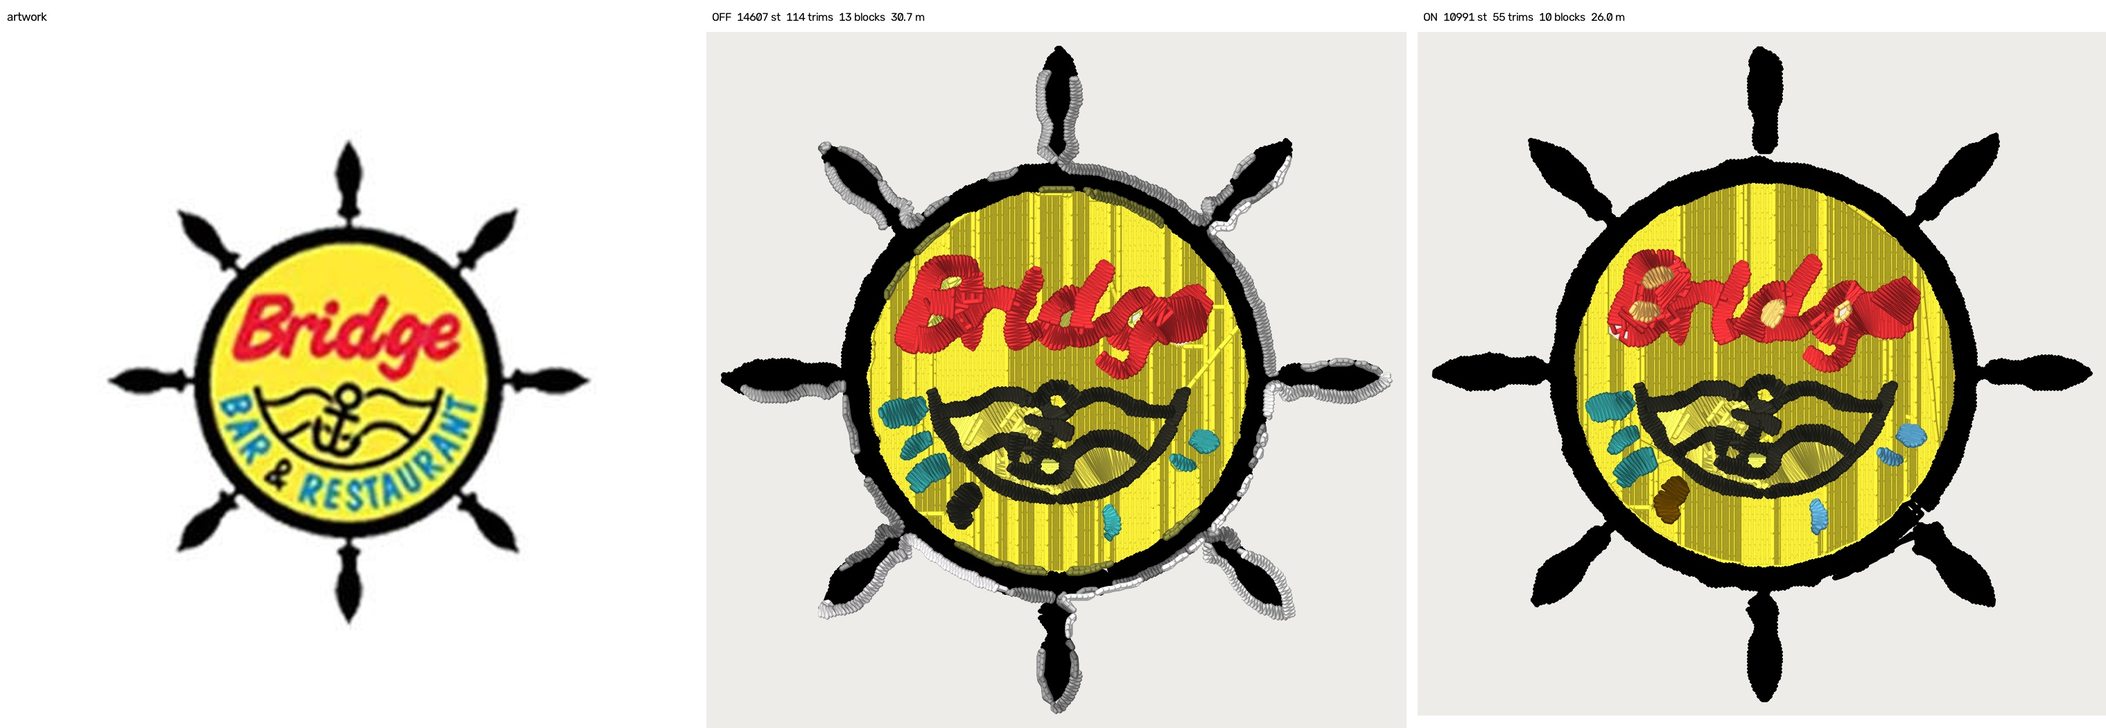
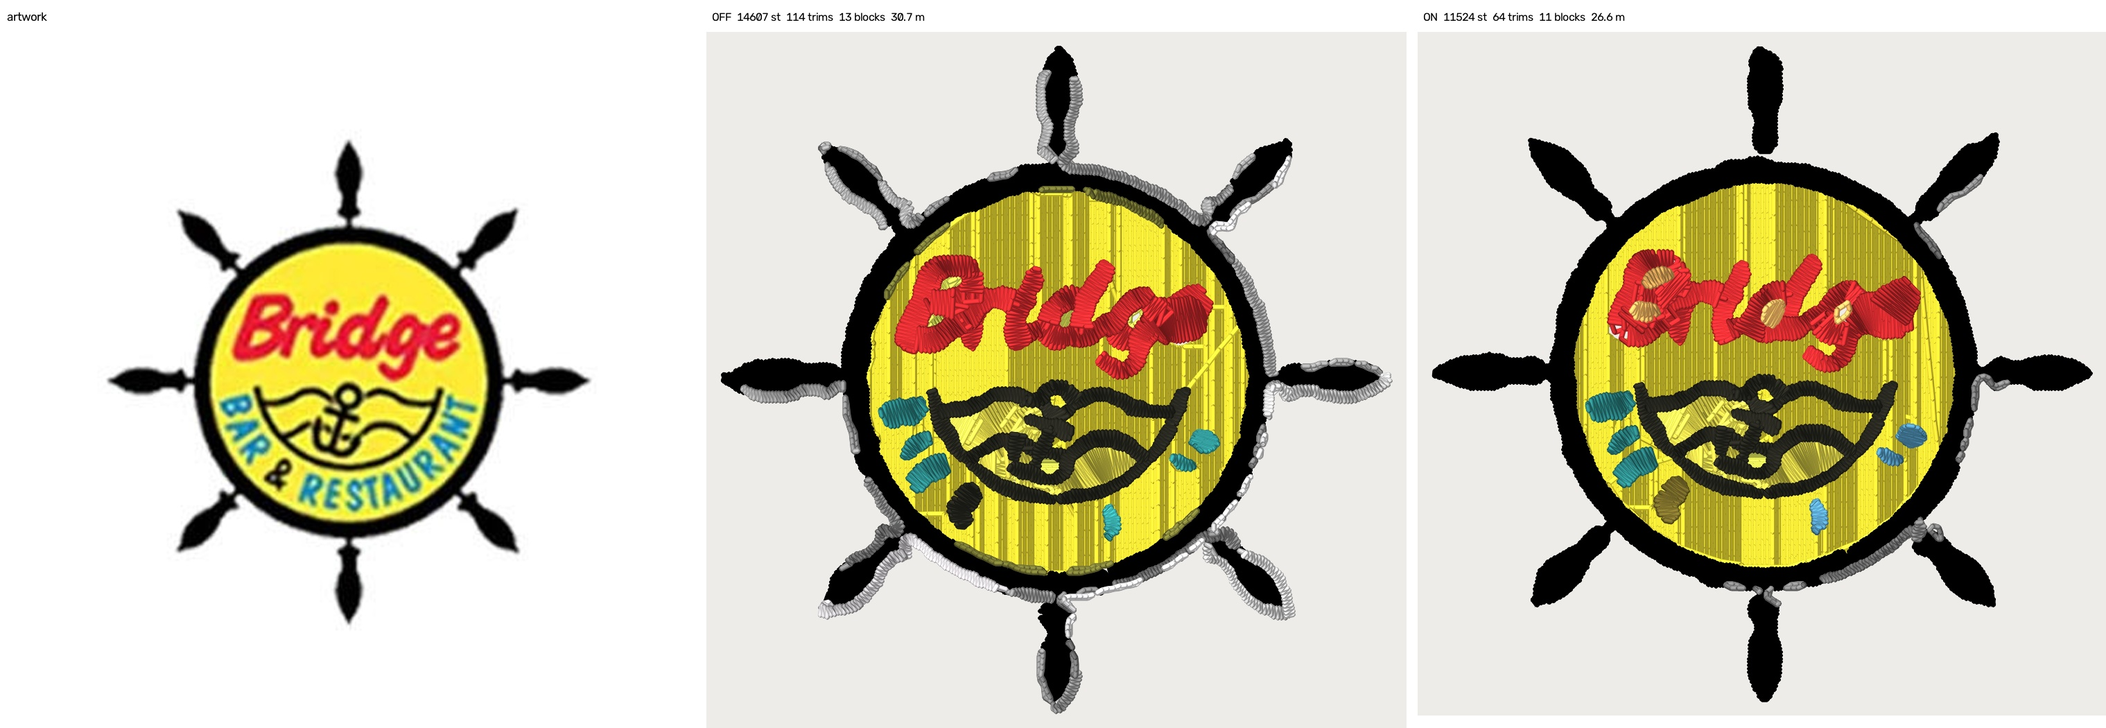
stage 2: the halo dissolve judges the STACK, not each band — the window is a question about the structure, collinearity about the ring
Ringing arrives stacked (black -> Whale -> Cobblestone -> Skylight -> page on
Bridge Bar's spokes), and the first cut asked each ring what IT lay between.
Its neighbours are other rings, so two bands name each other and neither
moves: a symmetric 30%/50% ramp deadlocks outright, and a longer stack folds
inward one ring at a time instead of outward to real colour.

Grouping touching bands and testing against what surrounds the whole stack
fixes the deadlock and breaks the outermost ring instead — Skylight alone sits
at t 0.89 of black->page, outside the flat lane's 0.15-0.85 window, so it
survives as a cone and the fixture goes the wrong way: 52 regions and 82 trims
against 32 and 64, with the palette's worst excess rising to 23.0, worse than
doing nothing.

The resolution splits the two questions the flat lane asks together. The
WINDOW is about the structure — a stack tiles the segment, so what has to sit
properly inside it is the group's centre of mass. COLLINEARITY stays about
each band, so one outlier shard cannot veto a stack and a real colour that
happens to be thin and to sit in the middle of a ramp is still spared. Each
member then joins the end its own t is nearer.

Bridge Bar @ 80 mm: regions 74 -> 32, stitches 14,607 -> 11,524, trims
114 -> 64, silhouette -4.2%, palette worst excess 20.76 -> 3.68 dE00. The cone
count reads 13 -> 11 and undersells it — five of six greys go, all four real
cones survive, and three new cones arrive on artwork the palette could not
[…]

diff --git a/digitizer/digitizer_core/stage2_photo_segment.py b/digitizer/digitizer_core/stage2_photo_segment.py
@@ -1612,46 +1612,81 @@ def dissolve_phantom_blends(
     # far side of the black it was ringing -- 3,989 px moved and the
     # component count did not shift by one, because as many shapes split as
     # merged. Sending it to one of its two endpoints cannot do that.
-    target: dict[int, int] = {}
+    # Ringing arrives as a STACK, not a band: on Bridge Bar the black spokes
+    # go black -> Whale -> Cobblestone -> Skylight -> page, four concentric
+    # bands. So the two sides of the step are the labels around the WHOLE
+    # stack, not each band's immediate neighbours -- an inner band's
+    # neighbours are other bands, and asking what IT lies between gets the
+    # band beside it as an answer. Two bands then name each other and
+    # nothing moves: a symmetric pair deadlocks outright (a 30%/50% ramp
+    # between black and white leaves both standing), and a longer stack
+    # folds inward one ring at a time instead of outward to real colour.
+    # Grouping first is also what makes this agree with the instrument that
+    # bills it, `tools/halo_spools.py`, which groups for the same reason.
+    band = np.zeros(n_ids, bool)
     for j in range(n_ids):
-        n = int(counts[j])
-        if not n:
+        if counts[j] and float(edge_counts[j]) / int(counts[j]) >= _PHOTO_PHANTOM_EDGE_FRAC:
+            band[j] = True
+
+    parent = list(range(n_ids))
+
+    def find(x: int) -> int:
+        while parent[x] != x:
+            parent[x] = parent[parent[x]]
+            x = parent[x]
+        return x
+
+    for j in range(n_ids):
+        if not band[j]:
             continue
-        if float(edge_counts[j]) / n < _PHOTO_PHANTOM_EDGE_FRAC:
-            continue
+        for o in adj[j]:
+            if o != _PAGE and band[o] and find(o) != find(j):
+                parent[find(j)] = find(o)
+
+    groups: dict[int, list[int]] = {}
+    for j in range(n_ids):
+        if band[j]:
+            groups.setdefault(find(j), []).append(j)
+
+    target: dict[int, int] = {}
+    for members in groups.values():
+        member_set = set(members)
+        outside = {o for j in members for o in adj[j] if o not in member_set}
         ends: list[tuple[int, np.ndarray]] = [
-            (o, means[o]) for o in sorted(adj[j]) if o != _PAGE and counts[o]
+            (o, means[o]) for o in sorted(o for o in outside if o != _PAGE and counts[o])
         ]
-        if _PAGE in adj[j] and bg_endpoint is not None:
+        if _PAGE in outside and bg_endpoint is not None:
             ends.append((_PAGE, bg_endpoint))
-        side = _blend_side(means[j], ends, cfg.merge_delta_e)
-        if side is not None:
-            target[j] = side
+        member_labs = [means[j] for j in members]
+        weights = np.array([float(counts[j]) for j in members])
+        pair = _blend_ramp(member_labs, weights, ends, cfg.merge_delta_e)
+        if pair is None:
+            continue
+        (ia, la), (ib, lb) = pair
+        seg = lb - la
+        denom = float(seg @ seg)
+        for j, cj in zip(members, member_labs):
+            t = float((cj - la) @ seg / denom)
+            # Each member still has to be ON that line itself -- the flat
+            # lane's own collinearity test, per colour. The group decides
+            # which two colours the structure runs between; this decides
+            # whether THIS band is part of the ramp, or a real colour that
+            # happens to be thin and to sit in the middle of one.
+            if float(np.linalg.norm(cj - (la + t * seg))) >= cfg.merge_delta_e:
+                continue
+            target[j] = ia if t < 0.5 else ib
 
     if not target:
         return labels, None, []
 
-    # Follow each chain to whatever it finally rests on: a stack of rings
-    # (black -> Whale -> Cobblestone -> Skylight -> page) hands every ring
-    # to the one inside it, so an unresolved pointer would leave a phantom
-    # wearing another phantom's id. Cycles cannot happen through a strictly
-    # nearer endpoint, but a raster is not a proof -- the guard is cheap.
-    def settle(j: int) -> int:
-        seen = {j}
-        while j in target:
-            j = target[j]
-            if j in seen:
-                return _PAGE if j == _PAGE else j
-            seen.add(j)
-        return j
-
     # One remap table, one pass. `remap[c]` is the compacted label pixel `c`
-    # ends up wearing; `to_page` marks the ones that leave the design.
+    # ends up wearing; `to_page` marks the ones that leave the design. Every
+    # destination is outside its own band group by construction, so there is
+    # no chain to follow and no cycle to guard against.
     remap = np.arange(n_ids)
     to_page = np.zeros(n_ids, bool)
     dissolved_px = dropped_px = 0
-    for j in sorted(target):
-        dest = settle(j)
+    for j, dest in sorted(target.items()):
         if dest == _PAGE:
             # Page-side of the step: these pixels are more background than
             # artwork, and the true edge is the midpoint they sit outside.
@@ -1704,6 +1739,61 @@ _PAGE = -1
 # cheap first gate that keeps the O(n²) endpoint search off the 20-odd labels
 # that are plainly interior fields.
 _PHOTO_PHANTOM_EDGE_FRAC = 0.5
+
+
+def _blend_ramp(member_labs: list[np.ndarray], weights: np.ndarray,
+                ends: list[tuple[int, np.ndarray]], tol_de: float):
+    """Is this whole thin structure a RAMP between two of `ends`?
+    -> the (id, lab) pair it ramps between, or None.
+
+    The flat lane's collinearity test (`stage2_quantize.
+    _quantize_population`) — its `cfg.merge_delta_e` tolerance and its
+    0.15-0.85 window, so the two lanes answer the same question the same
+    way — asked of a GROUP rather than of one colour.
+
+    Why the group and not each band: ringing arrives stacked, and a stack
+    TILES the segment between the two things it lies between. Bridge Bar's
+    spokes go black -> Whale -> Cobblestone -> Skylight -> page, and
+    Skylight alone sits at t 0.89 of black->page — outside the window, so
+    band-by-band the outermost ring survives as a cone and the whole point
+    is lost (measured: 52 regions and 82 trims against 20 and 55, with the
+    palette's worst excess going UP). What actually has to be true is that
+    the structure as a whole is a ramp between its two sides: every member
+    on the line, and the structure's own centre of mass properly inside it.
+    Each member then joins the end its own t is nearer.
+
+    A lone band is a group of one, where this reduces to the flat lane's
+    test exactly.
+    """
+    best = None
+    w = np.maximum(weights, 1e-9)
+    labs = np.stack(member_labs)
+    centre = np.average(labs, axis=0, weights=w)
+    for a in range(len(ends)):
+        for b in range(a + 1, len(ends)):
+            (_ia, ca), (_ib, cb) = ends[a], ends[b]
+            ab = cb - ca
+            L = float(np.dot(ab, ab))
+            if L <= 0:
+                continue
+            t_mid = float(np.dot(centre - ca, ab)) / L
+            if not (0.15 < t_mid < 0.85):
+                continue
+            # Weighted MEAN offset, not the worst: one outlier shard should
+            # not veto a whole stack, and members are tested one by one by
+            # the caller anyway -- this only decides WHICH pair the structure
+            # ramps between. It was tried as a cure for 0111 Whale surviving
+            # on Bridge Bar and is NOT one: that fixture is byte-identical
+            # either way, so the surviving cone has a different cause (see
+            # the residual in scope-history 2026-09-04). Kept because the
+            # robustness argument stands on its own, not because it was
+            # measured to help here.
+            t = (labs - ca) @ ab / L
+            off = np.linalg.norm(labs - (ca + t[:, None] * ab), axis=1)
+            score = float(np.average(off, weights=w))
+            if score < tol_de and (best is None or score < best[0]):
+                best = (score, (ends[a], ends[b]))
+    return None if best is None else best[1]
 
 
 def _blend_side(cj: np.ndarray, ends: list[tuple[int, np.ndarray]],

diff --git a/digitizer/tests/test_phantom_blend_photo.py b/digitizer/tests/test_phantom_blend_photo.py
@@ -6,21 +6,30 @@ filter, then phantom-blend dissolve", whose own comment records what happens
 without it: *"two extra pale threads, plus ~30 sliver regions that then had
 to be absorbed downstream"*. The photo/gradient lane never got that pass, and
 `docs/kent-review-2026-09-03.md` bills the gap on `logo_bridge_bar.jpg`: a
-four-colour logo arriving on **13 cones**, four of them grey — Skylight,
-Saturn Grey, Silver, Umber — sewing nothing but the JPEG's ringing around the
-black spokes.
+four-colour logo arriving on **13 cones**, six of them grey — Cobblestone,
+Whale, Skylight, Saturn Grey, Silver, Umber — sewing nothing but the JPEG's
+ringing around the black spokes. (The review named four; measuring the plan
+rather than reading the render finds six.)
 
 Measured on that fixture @ 80 mm, `max_colors=6`, satin on:
 
-    regions           74 -> 20
-    blocks            13 -> 10
-    stitches      14,607 -> 10,991      (-24.8%)
-    trims            114 -> 55          (-51.8%)
-    thread          30.7 -> 26.0 m
-    palette worst-excess dE00  20.76 -> 6.08
+    regions           74 -> 32
+    blocks            13 -> 11
+    stitches      14,607 -> 11,524      (-21.1%)
+    trims            114 -> 64          (-43.9%)
+    thread          30.7 -> 26.6 m
+    palette worst-excess dE00  20.76 -> 3.68
+
+The cone count only falls 13 -> 11, and that is the least interesting number
+here: five of the six greys go (Cobblestone, Skylight, Saturn Grey, Umber,
+Silver), and three NEW cones arrive on the artwork the palette could not
+afford before. What changed is what the cones SEW, which is what the worst
+excess falling from 20.8 to 3.7 dE00 measures. **0111 Whale survives** — 12
+shards, 14.2 mm2, 0.237 mm median width, 0.7% of the design; a known
+residual, not a clean sweep.
 
 `tools/halo_spools.py` is the instrument that bills it, and it reads 44 halo
-regions before and 0 after. Across the committed corpus it finds halo cones on
+regions before and 2 after. Across the committed corpus it finds halo cones on
 exactly three fixtures — bridge (4), golden_tee (1), gaulke (1) — and none on
 becker, fremont, enthusiast, drone, whitebg, golke, summit or tires, which is
 the evidence that the test is specific to compression artefacts rather than to
@@ -190,20 +199,25 @@ def test_default_is_off():
 
 
 def test_bridge_bar_loses_its_grey_cones(bridge_pair):
-    """The four cones `docs/kent-review-2026-09-03.md` named, by number."""
-    (off_r, off_p), (on_r, on_p) = bridge_pair
+    """Five of the six greys `docs/kent-review-2026-09-03.md` named, by
+    number. 0111 Whale is deliberately not asserted either way — it survives
+    today as 12 hairline shards, and this test should not have to change when
+    that residual is closed."""
+    (_off_r, off_p), (_on_r, on_p) = bridge_pair
     off_cones = {c.get("number") for c in off_p.palette}
     on_cones = {c.get("number") for c in on_p.palette}
-    for grey in ("0145", "0182", "0465", "3971", "0108", "0111"):
+    for grey in ("0145", "0182", "0465", "3971", "0108"):
         assert grey in off_cones, f"{grey} should be there to lose"
         assert grey not in on_cones, f"{grey} still sewing halo"
 
 
 def test_bridge_bar_costs_much_less(bridge_pair):
+    """Bounds with headroom around the measured 32 / 64 / 11,524 / 11, so a
+    real regression trips them and ordinary engine drift does not."""
     (off_r, off_p), (on_r, on_p) = bridge_pair
-    assert len(on_r.regions) < len(off_r.regions) / 3
-    assert on_p.stats.trims < off_p.stats.trims / 1.8
-    assert on_p.stats.stitch_count < off_p.stats.stitch_count
+    assert len(on_r.regions) < len(off_r.regions) * 0.55
+    assert on_p.stats.trims < off_p.stats.trims * 0.75
+    assert on_p.stats.stitch_count < off_p.stats.stitch_count * 0.9
     assert len(on_p.blocks) < len(off_p.blocks)
 
 
@@ -228,7 +242,7 @@ def test_bridge_bar_palette_fits_the_design_better(bridge_pair):
                 return w["max_excess_de00"]
         return None
 
-    assert excess(on_r) < excess(off_r) / 2
+    assert excess(on_r) < excess(off_r) / 4
 
 
 def test_bridge_bar_silhouette_barely_moves(bridge_pair):

diff --git a/docs/scope-history.md b/docs/scope-history.md
@@ -4205,7 +4205,7 @@ Two deliberate differences from the flat lane, both recorded in the function:
   discriminator and the code says so: two real-artwork labels on that fixture
   also clear 0.5 (0.562 and 0.619), and what keeps them is the colour test.
 
-**Two wrong turns, both caught by measurement rather than by review:**
+**Three wrong turns, all caught by measurement rather than by review:**
 
 1. **The first version tested the RAMP-FLATTENED Lab.** `lab_img` at that
    point has had the design sweep subtracted (Kent's 2026-09-03 gradient
@@ -4220,6 +4220,17 @@ Two deliberate differences from the flat lane, both recorded in the function:
    count did not shift by one**, because as many shapes split as merged. That
    is the signature to remember — a pass that visibly fires and changes
    nothing downstream is folding things somewhere they are not adjacent to.
+3. **Then grouping the bands broke the outermost ring.** Sending each band to
+   its own immediate neighbour deadlocks on a symmetric pair — a 30%/50% ramp
+   between black and white has each band naming the other and neither moves —
+   which a unit test caught. But testing each band against the GROUP's
+   endpoints put Skylight at t 0.89 of black→page, outside the 0.15–0.85
+   window, so the outermost ring survived as a cone and the fixture went the
+   wrong way: **52 regions and 82 trims against 32 and 64, and the palette's
+   worst excess rose to 23.0 — worse than doing nothing.** The resolution is
+   that the window is a question about the STRUCTURE (its centre of mass) and
+   collinearity stays a question about each BAND: a stack tiles the segment,
+   so its members are individually meant to sit near the ends of it.
 
 **Bridge Bar @ 80 mm, `max_colors=6`, satin, left chest** (the review's own
 configuration; its 10,885/106 predate the 09-03/04 fill-row, curve and rail
@@ -4228,21 +4239,33 @@ work, so the OFF column is today's engine, not that document's):
 | | OFF | ON |
 |---|---:|---:|
 | merged labels | 57 | 20 |
-| regions | 74 | **20** |
-| blocks | 13 | **10** |
-| colour changes | 12 | 9 |
-| stitches | 14,607 | **10,991** (−24.8%) |
-| trims | 114 | **55** (−51.8%) |
-| thread | 30.67 m | 26.02 m |
-| region area | 2,229.8 mm² | 2,126.4 mm² (−4.6%) |
-| palette worst excess | 20.76 dE00 | **6.08** |
+| regions | 74 | **32** |
+| blocks | 13 | **11** |
+| colour changes | 12 | 10 |
+| stitches | 14,607 | **11,524** (−21.1%) |
+| trims | 114 | **64** (−43.9%) |
+| thread | 30.67 m | 26.63 m |
+| region area | 2,229.8 mm² | 2,135.2 mm² (−4.2%) |
+| palette worst excess | 20.76 dE00 | **3.68** |
 
-37 colours dissolved, 249.3 mm², of which 204.8 mm² returned to the
-background. **Six grey cones gone** — 0108 Cobblestone, 0111 Whale, 0145
-Skylight, 0182 Saturn Grey, 0465 Umber, 3971 Silver — and the four the logo
-actually has all survive: 0501 Sun, 0020 Black, 1720 Not Quite Red, 4531
-Caribbean. The palette's worst excess falling by a factor of three is an
-independent read on the same thing: medoids were being spent on ringing.
+37 colours dissolved, 249.3 mm², of which 185.2 mm² returned to the
+background.
+
+**Read the cone count last.** It falls only 13 → 11, and on its own that
+undersells what happened: five of the six greys go (0108 Cobblestone, 0145
+Skylight, 0182 Saturn Grey, 0465 Umber, 3971 Silver), the four the logo
+actually has all survive (0501 Sun, 0020 Black, 1720 Not Quite Red, 4531
+Caribbean), and **three new cones arrive on artwork the palette could not
+afford before** (1220, 6156, 3830 — ~1 mm-wide regions in the teal lettering
+and the letter counters). What changed is what the cones SEW, and the number
+that measures it is the palette's worst excess: **20.76 → 3.68 dE00**, i.e.
+the selected threads now cover the design to within 3.7 instead of 20.8.
+
+**Residual, named rather than rounded off: 0111 Whale survives** — 12 shards,
+14.2 mm², 0.237 mm median width, 0.7% of the design. Its group does not
+qualify as a ramp and the cause is not yet established; a weighted-mean
+tolerance was tried as a cure and the fixture is byte-identical either way, so
+that hypothesis is disproved, not confirmed. This is a five-of-six result.
 
 **The instrument, and the safety case.** `tools/halo_spools.py` bills a plan
 in the units the machine charges — a region is halo-shaped when it is under
@@ -4250,7 +4273,9 @@ in the units the machine charges — a region is halo-shaped when it is under
 it belongs to (grouped first: ringing arrives as a STACK of concentric bands,
 and shard-by-shard every inner shard's only neighbours are other shards), and
 its thread is a Lab interpolation of those two. It reads Bridge Bar at 44 halo
-regions with the flag off and **0** with it on. Across eleven committed
+regions with the flag off and **2** with it on (the surviving Whale shards
+no longer present two qualifying sides, so the instrument under-reports that
+residual — it is counted above from the plan instead). Across eleven committed
 fixtures it finds halo cones on exactly three — bridge (4), golden_tee (1),
 gaulke (1) — and none on becker, fremont, enthusiast, drone, whitebg, golke,
 summit or tires. Becker is the useful negative: a 1.5 px/mm PNG with plenty of

diff --git a/MASTER_SCOPE.md b/MASTER_SCOPE.md
@@ -159,7 +159,7 @@ icon. Cloth pointers added to defects 3, 6 and 16 below.
 
 26. **Satin/fill classifier flips borderline shapes under boundary detail — MEASURED NEGATIVE on eight cures, intrinsic to the thresholds (2026-09-03).** 5 of 219 DT-judged verdicts flip when only the polygon's detail changes (4 on a threshold edge: cv 0.5, aspect 3, `explained` 0.80); spur pruning ×3, the sewing spur rule, a hybrid, raster smoothing ×2 and a regularity band leave 3–12 flips and change 2–48 shipped verdicts, so nothing ships; the mitigation is `_CURVE_MIN_PX_PER_MM`. Open only as a different construction (a margin with memory, or a polygon-native width profile) — Kent's call. `tools/ribbon_stability.py`. *(measured 2026-09-03 — `docs/classifier-stability-2026-09-03.md`)*
 
-27. **Compression halos become their own cones — and the flat lane has dissolved them all along.** `stage2_quantize._quantize_population` runs "majority filter, then phantom-blend dissolve" and its comment records the bill without it ("two extra pale threads, plus ~30 sliver regions"); `Prep.bg_edge_rgb`'s docstring says it again. **The SLIC+RAG lane never got that pass** — so the defect is a missing PORT, not a missing idea. `logo_bridge_bar.jpg` (400 px JPEG, four ink colours) pays it in six grey cones — Cobblestone, Whale, Skylight, Saturn Grey, Silver, Umber — sewing the ringing around its black spokes. **FIXED, DEFAULT OFF** (`cfg.dissolve_phantom_blends`, `stage2_photo_segment.dissolve_phantom_blends`): a merged label that is more than half boundary AND a Lab interpolation of its own two adjacent sides folds into the side it is nearer, the page included, so the rebuilt edge lands at the step's midpoint instead of growing every shape by the halo stack. Bridge Bar 74 → **20** regions, 13 → 10 blocks, 14,607 → 10,991 st, **114 → 55 trims**, palette worst excess 20.76 → **6.08** dE00, silhouette −4.6%; all four real cones survive. `tools/halo_spools.py` bills it — 44 halo regions before, 0 after — and across eleven fixtures finds halo cones on bridge (4), golden_tee (1) and gaulke (1) and NONE on the other eight, Becker (1.5 px/mm PNG, many thin features, no compression) included: the test is specific to compression, not to thin features. **A render is the judge, not the suite** — Kent's 2026-09-04 ruling. *(measured 2026-09-04 — scope-history 09-04; `tests/test_phantom_blend_photo.py`; `docs/renders/halo-dissolve-2026-09-04/`)*
+27. **Compression halos become their own cones — and the flat lane has dissolved them all along.** `stage2_quantize._quantize_population` runs "majority filter, then phantom-blend dissolve" and its comment records the bill without it ("two extra pale threads, plus ~30 sliver regions"); `Prep.bg_edge_rgb`'s docstring says it again. **The SLIC+RAG lane never got that pass** — so the defect is a missing PORT, not a missing idea. `logo_bridge_bar.jpg` (400 px JPEG, four ink colours) pays it in six grey cones — Cobblestone, Whale, Skylight, Saturn Grey, Silver, Umber — sewing the ringing around its black spokes. **FIXED, DEFAULT OFF** (`cfg.dissolve_phantom_blends`, `stage2_photo_segment.dissolve_phantom_blends`): a merged label that is more than half boundary AND a Lab interpolation of its own two adjacent sides folds into the side it is nearer, the page included, so the rebuilt edge lands at the step's midpoint instead of growing every shape by the halo stack. Bridge Bar 74 → **32** regions, 14,607 → 11,524 st, **114 → 64 trims**, silhouette −4.2%. Read the cone count (13 → 11) LAST: five of six greys go, all four real cones survive, and three NEW cones arrive on artwork the palette could not afford — what changed is what the cones SEW, measured by the palette's worst excess, **20.76 → 3.68** dE00. Residual: 0111 Whale survives as 12 shards, 0.7% of the design, cause not established. `tools/halo_spools.py` bills it — 44 halo regions before, 2 after — and across eleven fixtures finds halo cones on bridge (4), golden_tee (1) and gaulke (1) and NONE on the other eight, Becker (1.5 px/mm PNG, many thin features, no compression) included: the test is specific to compression, not to thin features. **A render is the judge, not the suite** — Kent's 2026-09-04 ruling. *(measured 2026-09-04 — scope-history 09-04; `tests/test_phantom_blend_photo.py`; `docs/renders/halo-dissolve-2026-09-04/`)*
 
 ### Closed — kept numbered, because ten other docs cite them by number
 

diff --git a/DOCTRINE.md b/DOCTRINE.md
@@ -527,7 +527,12 @@ its hedge as it is copied forward** — is why this file is split.
   assumes the majority filter has thinned halos to one pixel; its
   "between any two clusters" assumes at most `max_colors` of them), and both
   had to be restated for a lane that arrives with 57 labels and no majority
-  filter. Port the QUESTION verbatim; re-measure the thresholds.
+  filter — and its 0.15-0.85 window assumes ONE cluster sitting between two
+  colours, where ringing here arrives as a STACK that tiles the whole segment,
+  so the window had to move from the band to the structure (band-by-band it
+  put the outermost ring at t 0.89, outside the window, and the fixture came
+  out worse than doing nothing). Port the QUESTION verbatim; re-measure every
+  threshold, and check what each one was assuming about its own lane.
   *(2026-09-04 — scope-history 09-04)*
 
 - **A pass that visibly fires and changes nothing downstream is folding things
